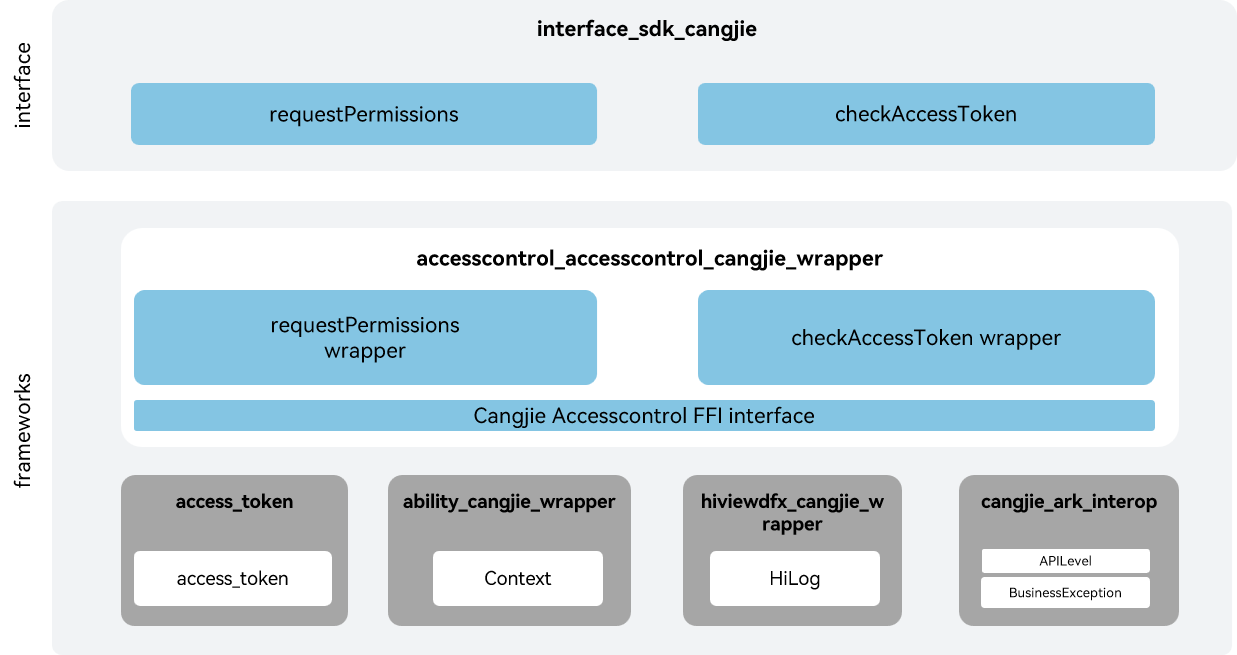
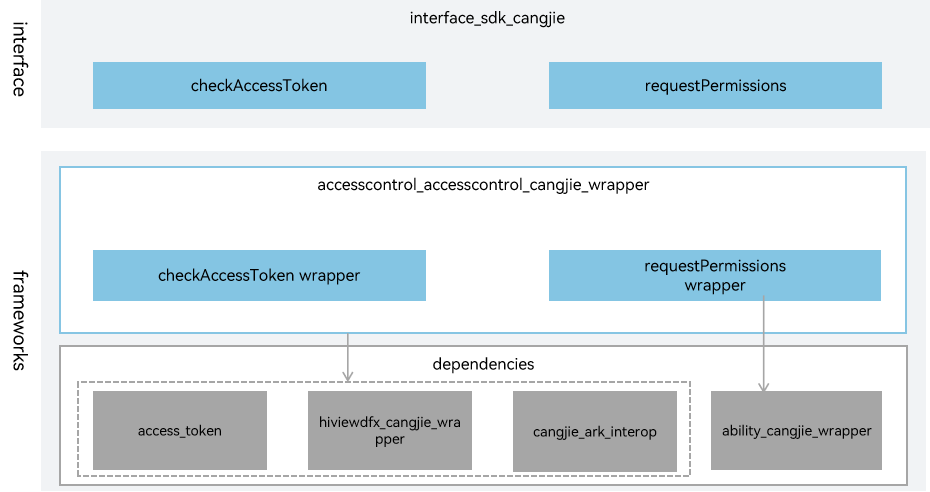
fix_readme

diff --git a/README_zh.md b/README_zh.md
@@ -1,8 +1,8 @@
-# 访问控制仓颉接口
+# 访问控制仓颉封装
 
 ## 简介
 
-访问控制仓颉接口是在OpenHarmony上基于AccessToken能力之上封装的仓颉API。应用的Accesstoken信息主要包括应用身份标识APPID、用户ID、应用分身索引、应用APL(Ability Privilege Level)等级、应用权限信息等。每个应用的Accesstoken信息由一个32bits的设备内唯一标识符TokenID(Token identity)来标识。仓颉接口提供应用程序的权限校验、申请和管理能力。当前开放的访问控制仓颉接口仅支持standard设备。
+访问控制仓颉封装提供应用程序的权限校验、申请能力。当前开放的访问控制仓颉接口仅支持standard设备。
 
 ## 系统架构
 
@@ -12,13 +12,22 @@
 
 如架构图所示：
 
-- 授权接口：开发者可请求用户授权，并返回此次权限申请的结果。访问控制提供应用程序的权限校验和管理能力。
-- 鉴权接口： 开发者可查看应用是否被授权。
-- 仓颉访问控制FFI接口定义：负责定义C语言互操作仓颉接口，用于实现仓颉访问控制能力。
+接口层：
+
+- 鉴权接口：面向开发者提供的鉴权API，开发者可查看应用是否被授权。
+- 授权接口：面向开发者提供的授权API，开发者可请求用户授权，并返回此次权限申请的结果。访问控制提供应用程序的权限校验和管理能力。
+
+框架层：
+
+- 鉴权接口功能封装：封装checkAccessToken接口，实现鉴权能力。
+- 授权接口功能封装：封装requestPermissionsFromUser接口，实现授权能力。
+
+架构图中的依赖部件引入说明：
+
 - 访问控制模块：负责提供访问控制基础功能，封装C语言接口提供给仓颉进行互操作。
+- hiviewdfx_cangjie_wrapper：负责提供日志接口。访问控制仓颉封装依赖此部件用于在关键路径处打印日志。
+- cangjie_ark_interop：负责提供仓颉注解类定义和BusinessException异常类定义。访问控制仓颉封装依赖此部件用于对API进行标注，及在错误分支向用户抛出异常。
 - ability_cangjie_wrapper：负责提供UIAbility上下文给授权接口拉起弹窗请求用户授权。
-- hiviewdfx_cangjie_wrapper：负责提供日志接口，用于在关键路径处打印日志。
-- cangjie_ark_interop：负责提供仓颉注解类定义，用于对API进行标注。以及提供抛向用户的BusinessException异常类定义。
 
 ## 目录
 
@@ -49,8 +58,15 @@ base/accesscontrol/accesscontrol_cangjie_wrapper
   - 拉起全局开关设置。
   - 二次拉起权限设置弹窗。
 
-
 访问控制相关API请参见[仓颉访问控制API文档](https://gitcode.com/openharmony-sig/arkcompiler_cangjie_ark_interop/blob/master/doc/API_Reference/source_zh_cn/apis/AbilityKit/cj-apis-ability_access_ctrl.md)，相关指导请参见[访问控制概述](https://gitcode.com/openharmony-sig/arkcompiler_cangjie_ark_interop/blob/master/doc/Dev_Guide/source_zh_cn/security/AccessToken/cj-access-token-overview.md)。
+
+## 约束
+
+与ArkTS提供的API能力相比，暂不支持以下功能：
+
+  - 查询应用权限状态。
+  - 拉起全局开关设置。
+  - 二次拉起权限设置弹窗。
 
 ## 参与贡献
 

diff --git a/README.md b/README.md
@@ -12,13 +12,22 @@ The accesscontrol_cangjie_wrapper is a Cangjie API encapsulated on OpenHarmony b
 
 As shown in the architecture diagram:
 
-- requestPermissionsFromUser: Developers can request user authorization, and the result of this permission application will be returned.
+interface: Provides APIs for developers.
+
 - checkAccessToken: accesscontrol_cangjie_wrapper provides permission verification and management capabilities for applications. Developers can check whether an application has been authorized.
-- Cangjie Accesscontrol FFI interface: Based on cross-language interoperability via C interfaces to implement accesscontrol Cangjie API.
+- requestPermissions: Developers can request user authorization, and the result of this permission application will be returned.
+
+frameworks:
+
+- checkAccessToken wrapper: Encapsulates the checkAccessToken interface, providing developers with the ability to check whether an application has been authorized.
+- requestPermissions wrapper: Encapsulates the requestPermissionsFromUser interface, providing developers with the ability to request permissions from users.
+
+Dependency Component Introduction in Architecture:
+
 - access_token: It is responsible for providing basic functions of application access control, and encapsulates C interfaces to provide interoperability for Cangjie.
-- ability_cangjie_wrapper: Responsible for providing UIAbilityContext to the authorization interface for launching permission request dialogs to users.
 - hiviewdfx_cangjie_wrapper: Responsible for providing HiLog APIs, used for printing logs at critical paths.
 - cangjie_ark_interop: Responsible for providing APILevel definitions, used for annotating APIs. Also provides the BusinessException exception class definition that is thrown to users.
+- ability_cangjie_wrapper: Responsible for providing UIAbilityContext to the authorization interface for launching permission request dialogs to users.
 
 ## Directory Structure
 
@@ -54,6 +63,14 @@ For Accesscontrol-related APIs, please refer to [ohos.ability_access_ctrl (Appli
 ## Code Contribution
 
 Developers are welcome to contribute code, documentation, etc. For specific contribution processes and methods, please refer to [Code Contribution](https://gitcode.com/openharmony/docs/blob/master/en/contribute/code-contribution.md).
+
+## Constraints
+
+The following features are not provided yet:
+
+  - Check the status of application permissions.
+  - Displays a dialog box for setting a global swich.
+  - Displays a permission settings dialog box to grant permissions the second time.
 
 ## Repositories Involved
 
